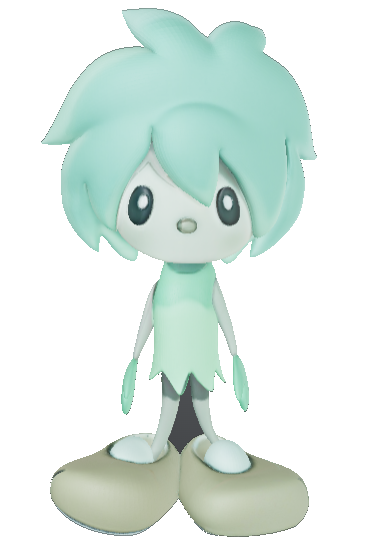
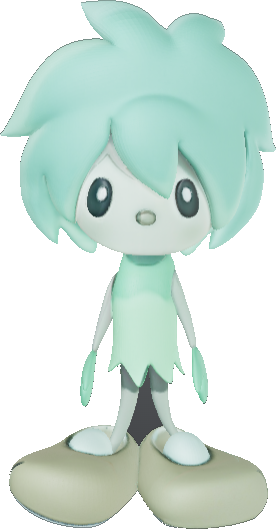
Make emotion images transparent for dark UI

Changed region(s): [[0.0, 0.0, 1.0, 1.0]]

diff --git a/src/index.css b/src/index.css
@@ -278,7 +278,7 @@ body {
   object-fit: contain;
   object-position: center;
   transform: scale(1.18) translateY(2%);
-  mix-blend-mode: normal;
+  mix-blend-mode: multiply;
   user-select: none;
   pointer-events: none;
   transition: filter 0.8s ease, transform 0.8s ease;
